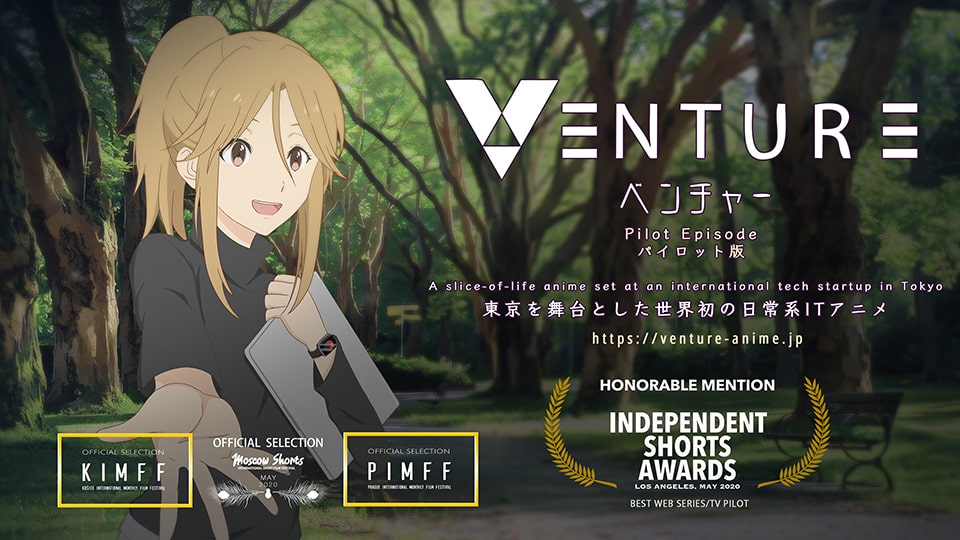
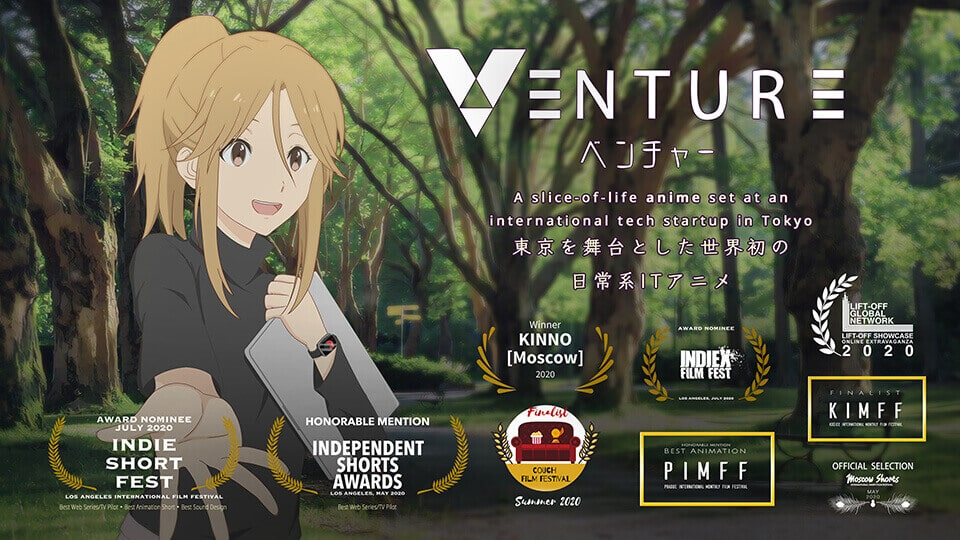
feat: 映画祭

diff --git a/src/pages/portfolio.js b/src/pages/portfolio.js
@@ -93,6 +93,30 @@ class Portfolio extends Component {
                         id: "projects.venture.subTitle",
                     },
                     {
+                        kinno: (
+                            <TextLink
+                                href="http://kinnotv.com"
+                                target="_blank"
+                            >
+                                <FormattedMessage id="projects.venture.kinno" />
+                            </TextLink>
+                        ),
+                        indie: (
+                            <TextLink
+                                href="https://indieshortfest.com/2020/07/03/nominations-of-july-2020/"
+                                target="_blank"
+                            >
+                                <FormattedMessage id="projects.venture.indie" />
+                            </TextLink>
+                        ),
+                        indiex: (
+                            <TextLink
+                                href="https://indiexfest.com/2020/07/21/nominations-of-july-2020/"
+                                target="_blank"
+                            >
+                                <FormattedMessage id="projects.venture.indiex" />
+                            </TextLink>
+                        ),
                         independent: (
                             <TextLink
                                 href="https://independentshortsawards.com/honorable-mentions-may-2020/"
@@ -103,10 +127,18 @@ class Portfolio extends Component {
                         ),
                         prague: (
                             <TextLink
-                                href="https://praguefilmfest.com/"
+                                href="https://praguefilmfest.com/winners/june-2020"
                                 target="_blank"
                             >
                                 <FormattedMessage id="projects.venture.prague" />
+                            </TextLink>
+                        ),
+                        couch: (
+                            <TextLink
+                                href="https://couchff.weebly.com/uploads/1/2/0/3/120372188/winners_couch_ff_summer_2020.pdf"
+                                target="_blank"
+                            >
+                                <FormattedMessage id="projects.venture.couch" />
                             </TextLink>
                         ),
                         kosice: (
@@ -120,6 +152,14 @@ class Portfolio extends Component {
                                 target="_blank"
                             >
                                 <FormattedMessage id="projects.venture.moscow" />
+                            </TextLink>
+                        ),
+                        liftoff: (
+                            <TextLink
+                                href="https://liftoff.network/realtime-results-voting-system-showcaseextravaganza-1/"
+                                target="_blank"
+                            >
+                                <FormattedMessage id="projects.venture.liftoff" />
                             </TextLink>
                         ),
                     }

diff --git a/src/components/portfolio/project.js b/src/components/portfolio/project.js
@@ -54,7 +54,9 @@ const DetailsWrapper = styled.div`
 
 const Title = styled.h1``;
 
-const SubTitle = styled.span``;
+const SubTitle = styled.span`
+    white-space: pre-wrap;
+`;
 
 const RoleWrapper = styled.div`
     display: flex;
